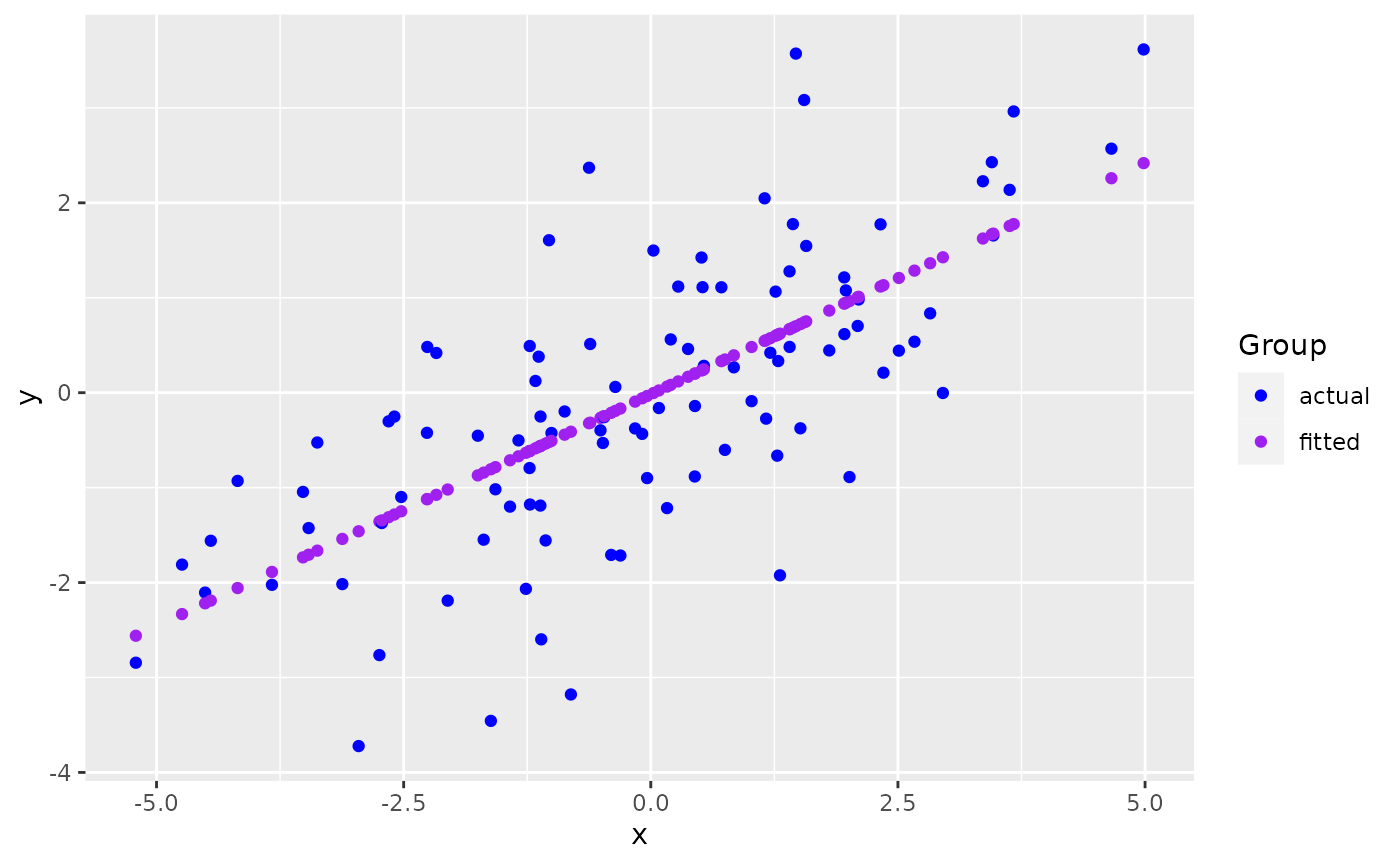
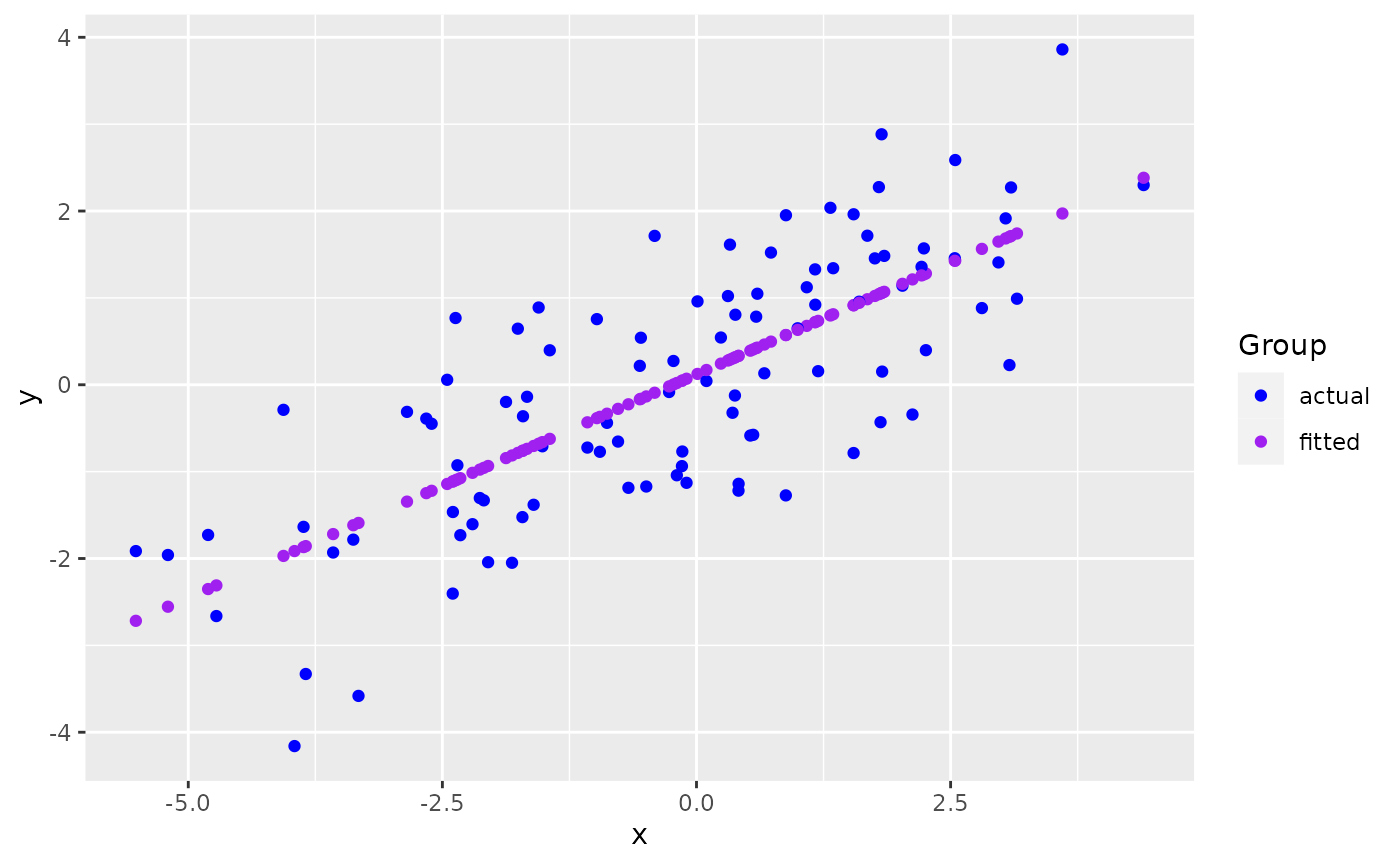
Built site for ggmatplot: 0.1.0.9000@6055f87

diff --git a/articles/ggmatplot.html b/articles/ggmatplot.html
@@ -33,7 +33,7 @@
       </button>
       <span class="navbar-brand">
         <a class="navbar-link" href="../index.html">ggmatplot</a>
-        <span class="version label label-default" data-toggle="tooltip" data-placement="bottom" title="">0.1.0</span>
+        <span class="version label label-default" data-toggle="tooltip" data-placement="bottom" title="">0.1.0.9000</span>
       </span>
     </div>
 
@@ -103,7 +103,7 @@
 <span class="va">x</span> <span class="op">&lt;-</span> <span class="fu"><a href="https://rdrr.io/r/base/c.html" class="external-link">c</a></span><span class="op">(</span><span class="fu"><a href="https://rdrr.io/r/stats/Normal.html" class="external-link">rnorm</a></span><span class="op">(</span><span class="fl">100</span>, sd <span class="op">=</span> <span class="fl">2</span><span class="op">)</span><span class="op">)</span>
 
 <span class="fu"><a href="https://rdrr.io/r/utils/head.html" class="external-link">head</a></span><span class="op">(</span><span class="va">x</span><span class="op">)</span>
-<span class="co">#&gt; [1] -0.5089014  2.6672630  2.1025178  0.3769167  1.4676802 -0.6129900</span>
+<span class="co">#&gt; [1] -3.3253331 -0.9801065  1.8106665 -1.5163600 -0.8805675  1.7943260</span>
 
 <span class="co"># matrix z</span>
 <span class="va">y</span> <span class="op">&lt;-</span> <span class="va">x</span> <span class="op">*</span> <span class="fl">0.5</span> <span class="op">+</span> <span class="fu"><a href="https://rdrr.io/r/stats/Normal.html" class="external-link">rnorm</a></span><span class="op">(</span><span class="fl">100</span>, sd <span class="op">=</span> <span class="fl">1</span><span class="op">)</span>
@@ -113,12 +113,12 @@
 
 <span class="fu"><a href="https://rdrr.io/r/utils/head.html" class="external-link">head</a></span><span class="op">(</span><span class="va">z</span><span class="op">)</span>
 <span class="co">#&gt;       actual     fitted</span>
-<span class="co">#&gt; 1 -0.3964202 -0.2649792</span>
-<span class="co">#&gt; 2  0.5371548  1.2860152</span>
-<span class="co">#&gt; 3  0.9819341  1.0102371</span>
-<span class="co">#&gt; 4  0.4607560  0.1675863</span>
-<span class="co">#&gt; 5  3.5719835  0.7002312</span>
-<span class="co">#&gt; 6  0.5128101 -0.3158080</span></code></pre></div>
+<span class="co">#&gt; 1 -3.5817222 -1.5906478</span>
+<span class="co">#&gt; 2  0.7556245 -0.3842641</span>
+<span class="co">#&gt; 3 -0.4308944  1.0513084</span>
+<span class="co">#&gt; 4 -0.7082127 -0.6601127</span>
+<span class="co">#&gt; 5 -0.4383046 -0.3330613</span>
+<span class="co">#&gt; 6  2.2754760  1.0429029</span></code></pre></div>
 <p><code>ggmatplot</code> plots vector <code>x</code> against each column of matrix <code>z</code> using the default <code>plot_type = "point"</code>. This will be represented on the resulting plot as two groups, identified using different shapes and colors.</p>
 <div class="sourceCode" id="cb2"><pre class="downlit sourceCode r">
 <code class="sourceCode R"><span class="kw"><a href="https://rdrr.io/r/base/library.html" class="external-link">library</a></span><span class="op">(</span><span class="va"><a href="https://github.com/xuan-liang/ggmatplot" class="external-link">ggmatplot</a></span><span class="op">)</span>

diff --git a/news/index.html b/news/index.html
@@ -17,7 +17,7 @@
       </button>
       <span class="navbar-brand">
         <a class="navbar-link" href="../index.html">ggmatplot</a>
-        <span class="version label label-default" data-toggle="tooltip" data-placement="bottom" title="">0.1.0</span>
+        <span class="version label label-default" data-toggle="tooltip" data-placement="bottom" title="">0.1.0.9000</span>
       </span>
     </div>
 
@@ -60,6 +60,9 @@
       <small>Source: <a href="https://github.com/xuan-liang/ggmatplot/blob/HEAD/NEWS.md" class="external-link"><code>NEWS.md</code></a></small>
     </div>
 
+    <div class="section level2">
+<h2 class="page-header" data-toc-text="development version" id="ggmatplot-development-version">ggmatplot (development version)<a class="anchor" aria-label="anchor" href="#ggmatplot-development-version"></a></h2>
+</div>
     <div class="section level2">
 <h2 class="page-header" data-toc-text="0.1.0" id="ggmatplot-010">ggmatplot 0.1.0<small>2021-12-08</small><a class="anchor" aria-label="anchor" href="#ggmatplot-010"></a></h2>
 <ul><li>This is the latest version on CRAN.</li>

diff --git a/reference/ggmatplot.html b/reference/ggmatplot.html
@@ -19,7 +19,7 @@ ggplot2."><!-- mathjax --><script src="https://cdnjs.cloudflare.com/ajax/libs/ma
       </button>
       <span class="navbar-brand">
         <a class="navbar-link" href="../index.html">ggmatplot</a>
-        <span class="version label label-default" data-toggle="tooltip" data-placement="bottom" title="">0.1.0</span>
+        <span class="version label label-default" data-toggle="tooltip" data-placement="bottom" title="">0.1.0.9000</span>
       </span>
     </div>
 

diff --git a/404.html b/404.html
@@ -32,7 +32,7 @@
       </button>
       <span class="navbar-brand">
         <a class="navbar-link" href="url/index.html">ggmatplot</a>
-        <span class="version label label-default" data-toggle="tooltip" data-placement="bottom" title="">0.1.0</span>
+        <span class="version label label-default" data-toggle="tooltip" data-placement="bottom" title="">0.1.0.9000</span>
       </span>
     </div>
 

diff --git a/articles/index.html b/articles/index.html
@@ -17,7 +17,7 @@
       </button>
       <span class="navbar-brand">
         <a class="navbar-link" href="../index.html">ggmatplot</a>
-        <span class="version label label-default" data-toggle="tooltip" data-placement="bottom" title="">0.1.0</span>
+        <span class="version label label-default" data-toggle="tooltip" data-placement="bottom" title="">0.1.0.9000</span>
       </span>
     </div>
 

diff --git a/reference/index.html b/reference/index.html
@@ -17,7 +17,7 @@
       </button>
       <span class="navbar-brand">
         <a class="navbar-link" href="../index.html">ggmatplot</a>
-        <span class="version label label-default" data-toggle="tooltip" data-placement="bottom" title="">0.1.0</span>
+        <span class="version label label-default" data-toggle="tooltip" data-placement="bottom" title="">0.1.0.9000</span>
       </span>
     </div>
 

diff --git a/LICENSE.html b/LICENSE.html
@@ -17,7 +17,7 @@
       </button>
       <span class="navbar-brand">
         <a class="navbar-link" href="index.html">ggmatplot</a>
-        <span class="version label label-default" data-toggle="tooltip" data-placement="bottom" title="">0.1.0</span>
+        <span class="version label label-default" data-toggle="tooltip" data-placement="bottom" title="">0.1.0.9000</span>
       </span>
     </div>
 

diff --git a/authors.html b/authors.html
@@ -17,7 +17,7 @@
       </button>
       <span class="navbar-brand">
         <a class="navbar-link" href="index.html">ggmatplot</a>
-        <span class="version label label-default" data-toggle="tooltip" data-placement="bottom" title="">0.1.0</span>
+        <span class="version label label-default" data-toggle="tooltip" data-placement="bottom" title="">0.1.0.9000</span>
       </span>
     </div>
 

diff --git a/index.html b/index.html
@@ -37,7 +37,7 @@
       </button>
       <span class="navbar-brand">
         <a class="navbar-link" href="index.html">ggmatplot</a>
-        <span class="version label label-default" data-toggle="tooltip" data-placement="bottom" title="">0.1.0</span>
+        <span class="version label label-default" data-toggle="tooltip" data-placement="bottom" title="">0.1.0.9000</span>
       </span>
     </div>
 
